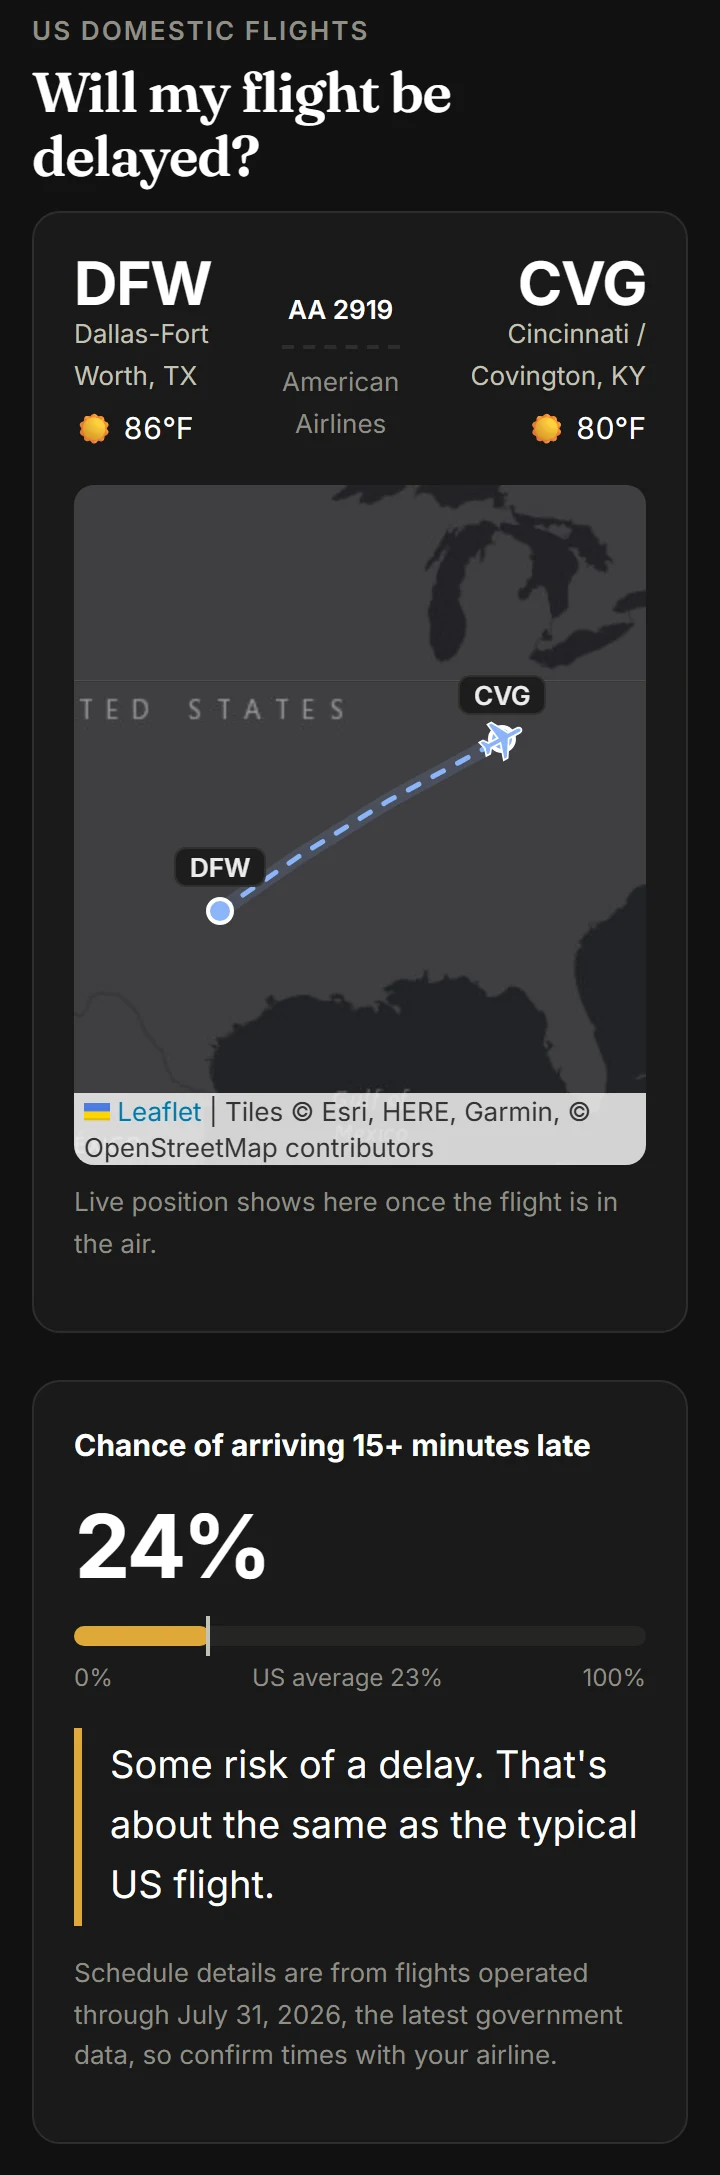
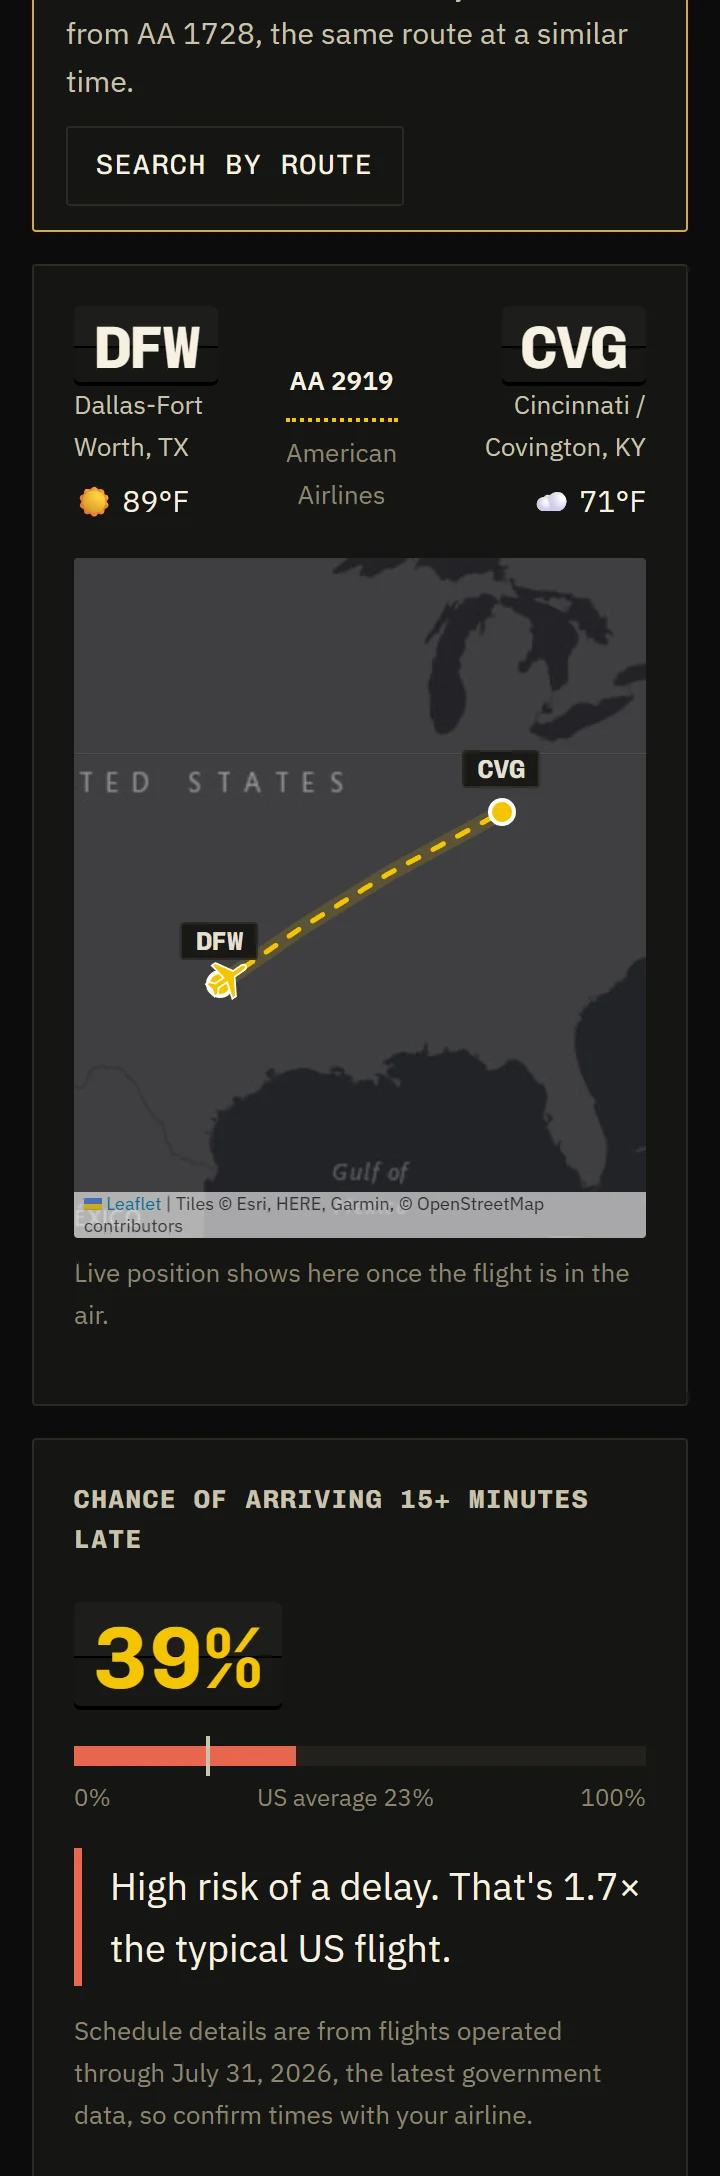
Update project screenshots for restyled sites

diff --git a/docs/index.html b/docs/index.html
@@ -55,7 +55,7 @@
               <div class="sub-text">
                 <p>Pick a route, stop and time to see how often each departure runs late or early, plus the chance it is 5+ minutes late. LightGBM models retrained daily on live-feed history and weather run right in the browser.</p>
               </div>
-              <div class="sub-media"><picture><source media="(max-width:600px)" srcset="images/bus-mobile.webp?v=2"><img src="images/bus-wide.webp?v=1" class="sub-img" alt="Will my bus be late? Blue Line toward Mall of America from Government Plaza Station, listing each upcoming departure with its usual delay and chance of running 5+ minutes late, plus the most and least reliable trips" loading="lazy"></picture></div>
+              <div class="sub-media"><picture><source media="(max-width:600px)" srcset="images/bus-mobile.webp?v=3"><img src="images/bus-wide.webp?v=2" class="sub-img" alt="Will my bus be late? Route 2 toward Central / U of M from Franklin Ave and Hennepin, listing each upcoming departure with its usual delay and chance of running 5+ minutes late" loading="lazy"></picture></div>
             </div>
           </div>
         </article>
@@ -70,7 +70,7 @@
               <div class="sub-text">
                 <p>Type a Minneapolis address to compare its assessed value with time-adjusted prices of similar nearby sales, plus an independent estimate of this month's sale price. The price model is more accurate than the city's (9.4% vs 12.0% error) and never sees the city's values.</p>
               </div>
-              <div class="sub-media"><picture><source media="(max-width:600px)" srcset="images/home-mobile.webp?v=1"><img src="images/home-wide.webp?v=1" class="sub-img" alt="Minneapolis Home Assessment Check for 2959 Lincoln St NE: the city value next to what similar homes sold for and the model estimate with a range, a dot plot of nearby sales, and appeal tips" loading="lazy"></picture></div>
+              <div class="sub-media"><picture><source media="(max-width:600px)" srcset="images/home-mobile.webp?v=2"><img src="images/home-wide.webp?v=2" class="sub-img" alt="Minneapolis Home Assessment Check for 2959 Lincoln St NE: the city value next to what similar homes sold for and the model estimate with a range, and a stamped verdict comparing the two" loading="lazy"></picture></div>
             </div>
           </div>
         </article>
@@ -78,13 +78,13 @@
         <article class="card wide">
           <h3><a class="title-link" href="https://kennedyjohnson.github.io/will-my-flight-be-delayed/" target="_blank" rel="noopener">Will My Flight Be Delayed?</a></h3>
           <p class="lead">Enter a US flight number and date to get the chance it arrives 15+ minutes late, with a route map and live weather. A LightGBM model trained on 7M flights picks out delayed flights 73% of the time, versus 62% from a flight's past on-time record alone.</p>
-          <picture><source media="(max-width:600px)" srcset="images/flight-mobile.webp?v=1"><img src="images/flight-static.webp" class="card-img" alt="Will My Flight Be Delayed? for AA 2919 from DFW to CVG: route map with live plane position and weather, a 26% chance of arriving 15+ minutes late, flight stats and a chart of what drives the estimate" loading="lazy"></picture>
+          <picture><source media="(max-width:600px)" srcset="images/flight-mobile.webp?v=2"><img src="images/flight-static.webp?v=2" class="card-img" alt="Will My Flight Be Delayed? for AA 2919 from DFW to CVG: airport codes on split-flap tiles, the route map and weather, and a 39% chance of arriving 15+ minutes late" loading="lazy"></picture>
         </article>
 
         <article class="card wide">
           <h3><a class="title-link" href="https://kennedyjohnson.github.io/movie-recommender/" target="_blank" rel="noopener">Movie Recommender</a></h3>
           <p class="lead">Rate a few movies and get a ranked list of what to watch next. The model behind it won my benchmark of eight recommenders on 33.8M ratings, ranking relevant movies about 7x better than a standard baseline.</p>
-          <picture><source media="(max-width:600px)" srcset="images/movies-mobile.webp?v=1"><img src="images/movies-static.webp" class="card-img" alt="Movie Recommender after rating six movies: a ranked grid of recommended films, each explained by the movies it is similar to, with genre and year filters" loading="lazy"></picture>
+          <picture><source media="(max-width:600px)" srcset="images/movies-mobile.webp?v=2"><img src="images/movies-static.webp?v=2" class="card-img" alt="Movie Recommender after rating six movies: a ranked grid of recommended films, each explained by the movies it is similar to, with genre and year filters" loading="lazy"></picture>
         </article>
 
         <article class="card">
